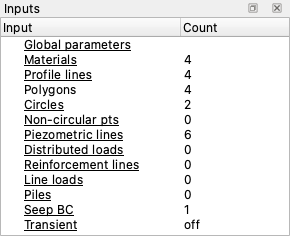
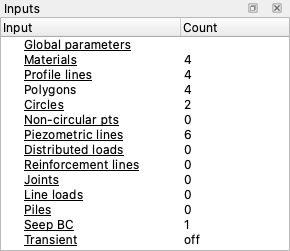
studio: the joints editor gets its Inputs row, and a second FEM run in a session no longer breaks the Run menu
Found by the 1.0.0 tutorial pass.

- The Inputs tree had no Joints row, so nothing opened the joints editor or
  its Build network... button; FEM-3 and FEM-5 tell the reader to click it.
  The row sits after Reinforcement lines, as docs/studio/editing.md lists it.
- Dropping the FEM results view (OK on an input editor, a mesh rebuild,
  opening another file) deleted its toolbar but left fem_details_btn and
  fem_continue_btn pointing at the deleted buttons; the next Run menu update
  raised and Run FEM stayed disabled for the session. Both teardown paths
  now clear them.
- The mesh signature now counts joint lines (endpoints only, like
  reinforcement), refinement regions and joint-network regions, so moving a
  joint marks the mesh stale and editing its strength does not.
- docs_links_check: the Joints row must exist and open the joints editor.
- editing_inputs_tree.png redrawn with the new row.

Claude-Session: https://claude.ai/code/session_01XjjT2aBxw8gY7EFdpoUcpj

Changed region(s): [[0.0, 0.0, 1.0, 1.0], [0.6207, 0.2076, 0.6828, 0.8898], [0.6207, 0.9195, 0.7138, 0.9788]]

diff --git a/studio/main_window.py b/studio/main_window.py
@@ -1742,6 +1742,7 @@ class MainWindow(QMainWindow):
         add("Distributed loads", len(d.get("dloads") or []), category="dloads")
         add("Reinforcement lines", len(d.get("reinforcement_lines") or []),
             category="reinforce")
+        add("Joints", len(d.get("joint_lines") or []), category="joints")
         add("Line loads", len(d.get("line_loads") or []), category="line_loads")
         add("Piles", len(d.get("pile_lines") or []), category="piles")
         add("Seep BC", len(sbc.get("specified_heads", [])), category="seep_bc")
@@ -1839,15 +1840,16 @@ class MainWindow(QMainWindow):
         "global": "Global Parameters", "materials": "Materials", "circles": "Circles",
         "non_circ": "Non-Circular Surface", "piezo": "Piezometric Lines",
         "dloads": "Distributed Loads", "seep_bc": "Seepage BC", "piles": "Piles",
-        "reinforce": "Reinforcement", "line_loads": "Line Loads",
+        "reinforce": "Reinforcement", "joints": "Joints", "line_loads": "Line Loads",
         "profile": "Profile Lines", "polygons": "Polygons",
         "transient": "Transient Seepage",
     }
 
-    # Source inputs whose change makes the mesh stale (the domain geometry plus
-    # the reinforcement/pile lines baked in as mesh constraint lines).
+    # Source inputs whose change makes the mesh stale (the domain geometry, the
+    # reinforcement/pile/joint lines baked in as mesh constraint lines, and the
+    # refinement and joint-network regions).
     MESH_KEYS = ("profile_lines", "polygons", "max_depth", "reinforcement_lines",
-                 "pile_lines")
+                 "pile_lines", "joint_lines", "refine_zones", "joint_zones")
 
     @staticmethod
     def mesh_signature(sd):
@@ -1869,11 +1871,12 @@ class MainWindow(QMainWindow):
                 return [clean(x) for x in o]
             return o
         def geometry_only(key, rows):
-            # A reinforcement or pile row enters the mesh as a constraint line
-            # and nothing more: only its endpoints (and how many rows there are)
-            # can change the mesh. Editing S, D, Tmax, Appl or any other property
-            # on a row must not throw the mesh away.
-            if key not in ("reinforcement_lines", "pile_lines") or not rows:
+            # A reinforcement, pile or joint row enters the mesh as a constraint
+            # line and nothing more: only its endpoints (and how many rows there
+            # are) can change the mesh. Editing S, D, Tmax, Appl, a joint's
+            # strength or any other property on a row must not throw the mesh away.
+            if key not in ("reinforcement_lines", "pile_lines",
+                           "joint_lines") or not rows:
                 return clean(rows)
             try:
                 return [[clean(r.get("x1")), clean(r.get("y1")),
@@ -1919,6 +1922,10 @@ class MainWindow(QMainWindow):
                 canvas.deleteLater()
         for a in single:
             setattr(self, a, None)
+        # The FEM results toolbar's buttons went with its canvas; a later Run
+        # menu update must not reach the deleted widgets.
+        self.fem_details_btn = None
+        self.fem_continue_btn = None
         self.seep_data_canvas = {}
         self.seep_solution_canvas = {}
         self.transient_seep_view = None
@@ -3525,6 +3532,10 @@ class MainWindow(QMainWindow):
                 canvas.deleteLater()
         for a in single:
             setattr(self, a, None)
+        # The FEM results toolbar's buttons went with its canvas; a later Run
+        # menu update must not reach the deleted widgets.
+        self.fem_details_btn = None
+        self.fem_continue_btn = None
         self.seep_data_canvas = {}
         self.seep_solution_canvas = {}
         self.transient_seep_view = None

diff --git a/test/docs_links_check.py b/test/docs_links_check.py
@@ -1258,6 +1258,10 @@ LEM12_PILE_FIELDS = ("Vcap (per element, lb)", "Mcap (per element, lb·ft)")
 #: not only a seepage one, which is what the page's Studio path says.
 SEEP01_INPUT_CATEGORIES = ("Seep BC",)
 
+#: The Inputs tree row FEM-3 and FEM-5 open the joints editor from (and its
+#: Build network… button). The tree lists the same rows in every mode.
+FEM_JOINTS_INPUT_ROW = ("Joints", "joints")
+
 #: The two Run-menu actions SEEP-1 names, in the same source-string convention as
 #: ``LEM02_RUN_ACTIONS`` (Qt's ``&`` removed, the ellipsis kept). The Run action's
 #: text follows the Mode switch, so the seepage label is read with the window put
@@ -2717,6 +2721,15 @@ def test_tutorial_labels():
             if name not in rows:
                 fails.append(f"the Inputs tree has no {name!r} row; Tutorial SEEP-1 "
                              f"tells the reader to click it. It reads {rows}")
+        from studio.main_window import CATEGORY_ROLE
+        name, category = FEM_JOINTS_INPUT_ROW
+        opens = [tree.topLevelItem(i).data(0, CATEGORY_ROLE)
+                 for i in range(tree.topLevelItemCount())
+                 if tree.topLevelItem(i).text(0) == name]
+        if opens != [category]:
+            fails.append(f"the Inputs tree has no {name!r} row opening the joints "
+                         f"editor; Tutorials FEM-3 and FEM-5 tell the reader to "
+                         f"click it. It reads {rows}")
 
         for attr, label in LEM02_RUN_ACTIONS.items():
             action = getattr(mw, attr, None)
